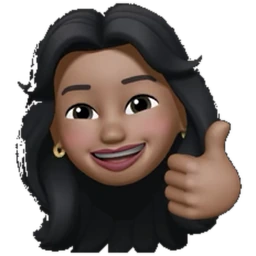
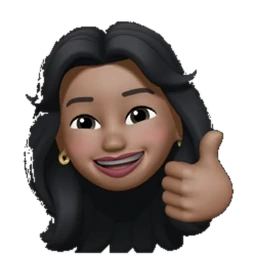
Sit the Memoji lower in its circle
The top of her hair was being cut. Nudging it with object-position was never
going to work here - the crop is square and the box is square, so cover scales
it to fit exactly and leaves nothing to reposition. The clipping is the circle
itself: one inscribed in a square only touches the edge at the four midpoints
and takes the corners off everything else.

So the room is added in the crop instead, and all of it goes above her.

diff --git a/tools-make-memoji.py b/tools-make-memoji.py
@@ -22,6 +22,7 @@ SRC = "images/kani-memoji.png"
 OUT = "images/kani-memoji.webp"
 TOL = 3        # how far off the card colour still counts as card
 PAD = 1        # breathing room around the figure, in source pixels
+DROP = 18      # extra headroom above her, so the circle clears her hair
 
 
 def main():
@@ -58,13 +59,18 @@ def main():
     out = im.convert("RGBA")
     out.putalpha(alpha)
 
-    box = out.getbbox()
-    x0, y0, x1, y1 = box
-    cx, cy = (x0 + x1) / 2.0, (y0 + y1) / 2.0
-    half = max(x1 - x0, y1 - y0) / 2.0 + PAD
-    # square, so a circular crop keeps the whole figure rather than a slice
-    sq = out.crop((int(cx - half), int(cy - half),
-                   int(cx + half), int(cy + half)))
+    x0, y0, x1, y1 = out.getbbox()
+    cx = (x0 + x1) / 2.0
+
+    # Square, so a circular crop keeps the whole figure rather than a slice.
+    # The extra room all goes above her: centred, the circle cut across the top
+    # of her hair, because a circle inscribed in a square only reaches the edge
+    # at the four midpoints and takes the corners off everything else.
+    side = max(x1 - x0, y1 - y0) + 2 * PAD + DROP
+    top = y0 - PAD - DROP
+    left = cx - side / 2.0
+    # crop() pads with transparency where it runs past the source
+    sq = out.crop((int(left), int(top), int(left + side), int(top + side)))
     sq = sq.resize((256, 256), Image.LANCZOS)
     sq.save(OUT, "WEBP", quality=92, method=6)
     print("kept %d px of card out of %d" % (len(seen), W * H))
